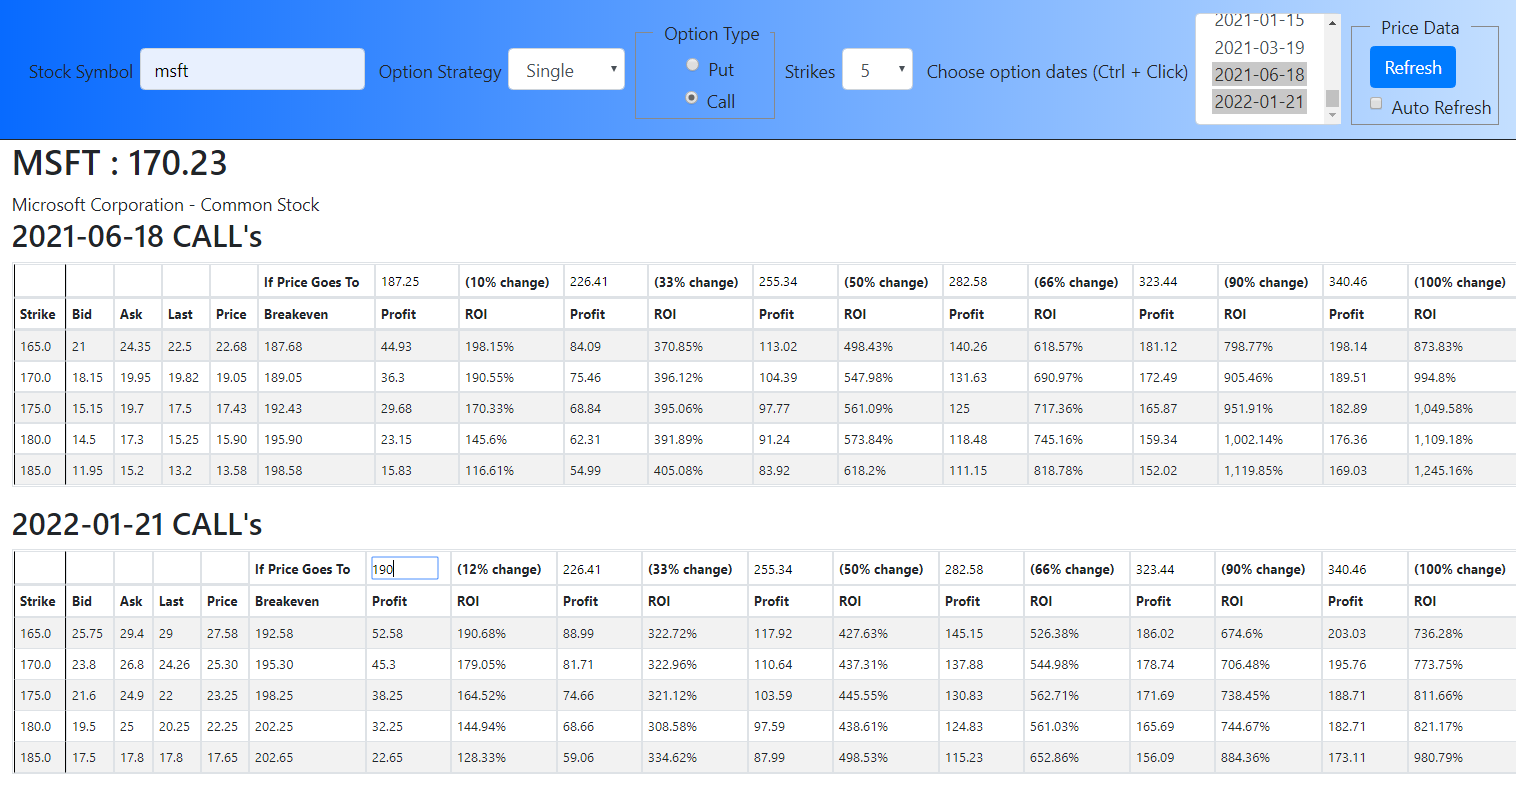
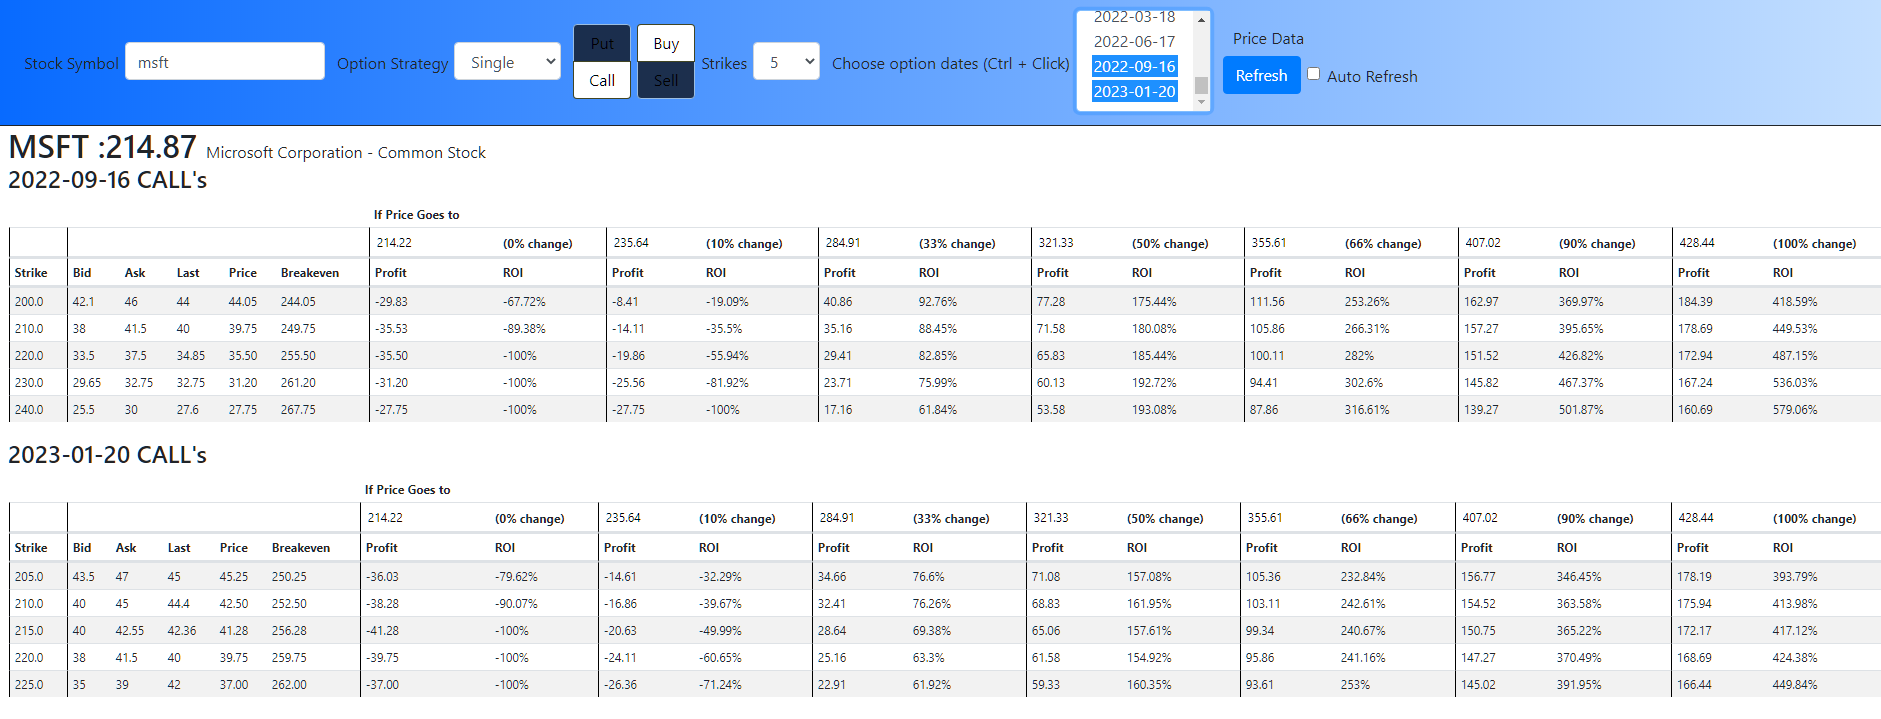
add border lines between prices

diff --git a/src/optionswhatif.js b/src/optionswhatif.js
@@ -7,7 +7,7 @@ import Alert from 'react-bootstrap/Alert'
 import Form from 'react-bootstrap/Form'
 import Container from "react-bootstrap/Container"
 import * as td from './td'
-import {OptionExpirations, StockInfo } from './owicomponents'
+import {OptionExpirations, StockInfo} from './owicomponents'
 
 const log = console.log
 

diff --git a/src/app.css b/src/app.css
@@ -37,6 +37,9 @@ table {
 .stocktable .sectionborder {
 	border-right: 1px solid black;
 }
+.stocktable .leftborder {
+	border-left: 1px solid black;
+}
 
 .stocktable .noborder {
 	border:none;
